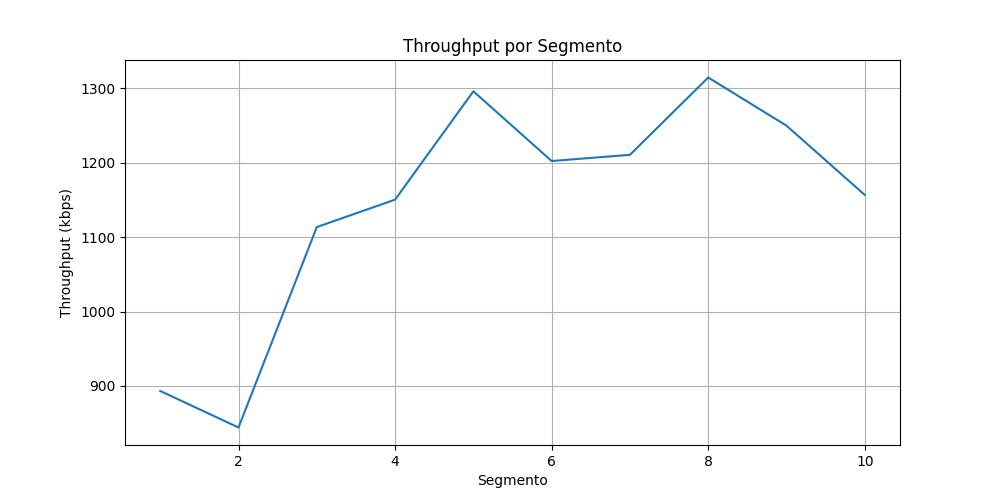
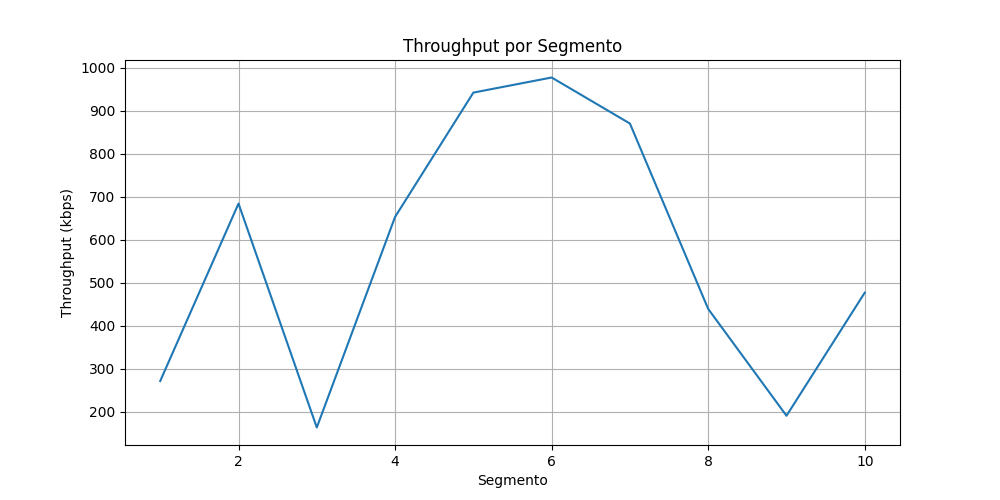
jitter

diff --git a/main.py b/main.py
@@ -4,6 +4,7 @@ from metrics import initialize_csv, save_metric
 from plot import plot_throughput
 from buffer import BufferManager
 from abr import choose_quality
+from jitter import JitterCalculator
 
 
 manifest = load_manifest()
@@ -11,6 +12,7 @@ manifest = load_manifest()
 SEGMENT_TIME = manifest["segment_duration_s"]
 
 buffer_metrics = BufferManager()
+jitter_calculator = JitterCalculator()
 
 server = manifest["servers"][0]
 base_url = server["url"]
@@ -18,12 +20,12 @@ base_url = server["url"]
 representations = manifest["representations"]
 
 initialize_csv()
+
 print(manifest)
 
 print("\n=== BAIXANDO SEGMENTOS ===\n")
 
-
-# começa conservadoramente
+# começa na menor qualidade
 current_rep = representations[0]
 
 last_throughput = None
@@ -41,10 +43,32 @@ for i in range(10):
         result["download_time_s"]
     )
 
-    save_metric(i + 1, result, buffer_metrics)
+    jitter_ms, jitter_ewma_ms = (
+        jitter_calculator.update(
+            result["download_time_s"]
+        )
+    )
 
-    print(f"Segmento {i+1}")
+    jitter_metrics = {
+        "jitter_network_ms": jitter_ms,
+        "jitter_ewma_ms": jitter_ewma_ms
+    }
+
+    save_metric(
+        i + 1,
+        result,
+        buffer_metrics,
+        jitter_metrics
+    )
+
+    print(f"Segmento {i + 1}")
     print(result)
+
+    print(
+        f"Jitter: {jitter_ms} ms | "
+        f"EWMA: {jitter_ewma_ms} ms"
+    )
+
     print()
 
     last_throughput = result["throughput_kbps"]

diff --git a/metrics.py b/metrics.py
@@ -21,11 +21,18 @@ def initialize_csv():
             "buffer_time_s",
             "buffer_can_play",
             "rebuffer_event",
-            "throughput_kbps"
+            "throughput_kbps",
+            "jitter_network_ms",
+            "jitter_ewma_ms"
         ])
 
 
-def save_metric(segment, result, buffer_metrics: object):
+def save_metric(
+    segment,
+    result,
+    buffer_metrics,
+    jitter_metrics
+):
 
     with open(CSV_FILE, mode="a", newline="") as file:
 
@@ -40,5 +47,6 @@ def save_metric(segment, result, buffer_metrics: object):
             buffer_metrics.buffer_can_play,
             buffer_metrics.rebuffer_event,
             result["throughput_kbps"],
-
+            jitter_metrics["jitter_network_ms"],
+            jitter_metrics["jitter_ewma_ms"]
         ])

diff --git a/jitter.py b/jitter.py
@@ -1,0 +1,29 @@
+class JitterCalculator:
+
+    def __init__(self, alpha=0.3):
+        self.last_download_time = None
+        self.jitter_ms = 0.0
+        self.jitter_ewma_ms = 0.0
+        self.alpha = alpha
+
+    def update(self, download_time_s):
+
+        if self.last_download_time is None:
+            self.last_download_time = download_time_s
+            return 0.0, 0.0
+
+        self.jitter_ms = abs(
+            download_time_s - self.last_download_time
+        ) * 1000
+
+        self.jitter_ewma_ms = (
+            self.alpha * self.jitter_ms
+            + (1 - self.alpha) * self.jitter_ewma_ms
+        )
+
+        self.last_download_time = download_time_s
+
+        return (
+            round(self.jitter_ms, 2),
+            round(self.jitter_ewma_ms, 2)
+        )
